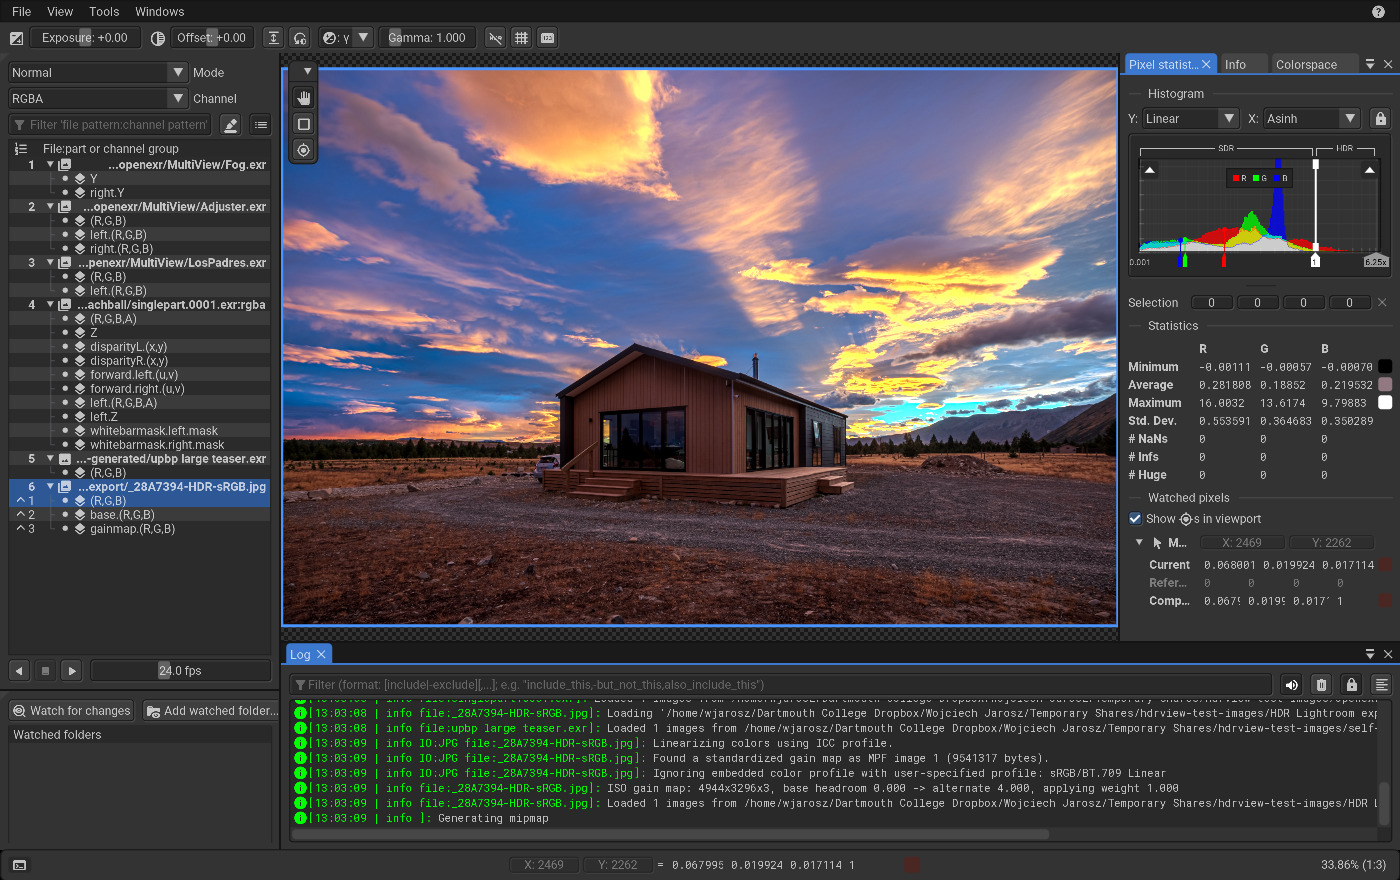
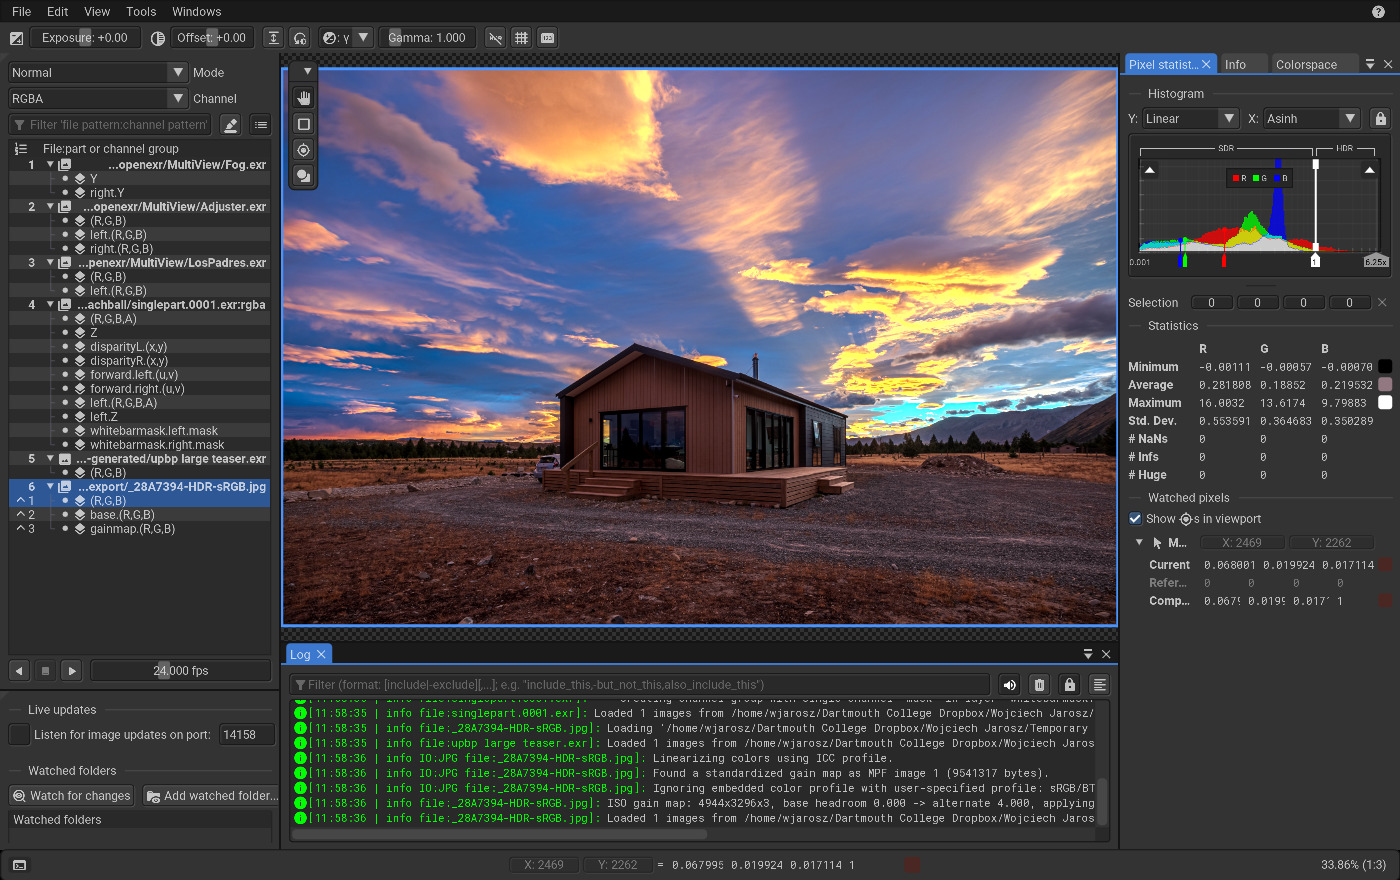
Take the screenshots, and fix the two things that stopped them
The captures themselves, taken on a machine with a GL backend: capture reads
back the app's OpenGL framebuffer, which hello_imgui installs only under
HELLOIMGUI_HAS_OPENGL, so macOS could not produce them. screenshot-editing.jpg
exists now, and the README's link to it resolves.

The editing shot never ran. One Blur object serves the whole process and
remembers the kind it was last set to, and an edit test picks Box, whose dialog
has no Sigma in it -- so the input blocked until the watchdog killed the test
sixty seconds later, and set -e stopped the script before it converted anything.
It selects Gaussian first, and addresses the dialog's items by absolute path,
SetRef not resolving that popup by name.

The palette shot's arrow and caption were behind the palette itself, which sits
over the middle of the viewport, where a fitted image puts whatever is worth
pointing at. Fitting this subject leaves a band above and below, so the image is
pushed down into the clear one. The pair that points is drawn in a color of its
own, apart from the circle that surrounds.

Claude-Session: https://claude.ai/code/session_01Y57sSWqP5MMFbHeyajn9MC

diff --git a/tests/gui/test_gui_screenshots.cpp b/tests/gui/test_gui_screenshots.cpp
@@ -341,10 +341,14 @@ void annotate_subject()
     const float2 extent = float2(img->display_window.size());
     const auto   at     = [extent](float u, float v) { return float2{u * extent.x, v * extent.y}; };
 
+    // A color of their own, so the pair that points reads apart from the circle that surrounds.
+    constexpr float4 pointing{0.25f, 0.85f, 1.f, 1.f};
+
     Annotation arrow;
     arrow.shape        = Annotation::Shape::Arrow;
     arrow.points       = {at(0.34f, 0.24f), at(0.517f, 0.365f)};
     arrow.stroke_width = 3.f;
+    arrow.stroke_color = pointing;
 
     Annotation caption;
     caption.shape  = Annotation::Shape::Text;
@@ -357,6 +361,7 @@ void annotate_subject()
     // height because the subject's resolution is not known here
     caption.font_size          = 0.05f * extent.y;
     caption.font_size_relative = true;
+    caption.stroke_color       = pointing;
 
     // Freehand rather than Ellipse: the point is that it looks drawn by hand
     Annotation circle;
@@ -430,6 +435,16 @@ void RegisterTests_Screenshots(ImGuiTestEngine *engine)
             ctx->SetRef("##MainMenuBar");
             ctx->MenuClick("View/Fit display window");
             ctx->SetRef("");
+        }
+
+        // The palette sits over the middle of the viewport, which is where a fitted image puts the things
+        // worth pointing at, so the image is pushed down into the clear band beneath it. Fitting leaves
+        // room above and below, and this spends it.
+        if (const float2 vp = hdrview()->viewport_size(); vp.y > 0.f)
+        {
+            const float2 center = vp * 0.5f;
+            hdrview()->reposition_pixel_to_vp_pos(center + float2{0.f, 0.22f * vp.y},
+                                                  hdrview()->pixel_at_vp_pos(center));
         }
 
         // the same shot carries the annotations and the panel that lists them, and the Log window under the
@@ -538,8 +553,13 @@ void RegisterTests_Screenshots(ImGuiTestEngine *engine)
         {
             c->SetRef("##MainMenuBar");
             c->MenuClick("Edit/Blur...");
-            c->SetRef("Blur...");
-            c->ItemInputValue("Sigma", sigma);
+            // The dialog exists from the frame after the click, and its items are addressed by an absolute
+            // path: SetRef does not resolve this popup by name.
+            c->Yield(2);
+            // One Blur object serves the whole process and remembers the kind it was last set to, so an
+            // edit test that chose Box leaves a dialog with no Sigma in it.
+            c->ItemClick("//Blur.../Gaussian");
+            c->ItemInputValue("//Blur.../Sigma", sigma);
             c->KeyPress(ImGuiKey_Enter);
             c->SetRef("");
         };
